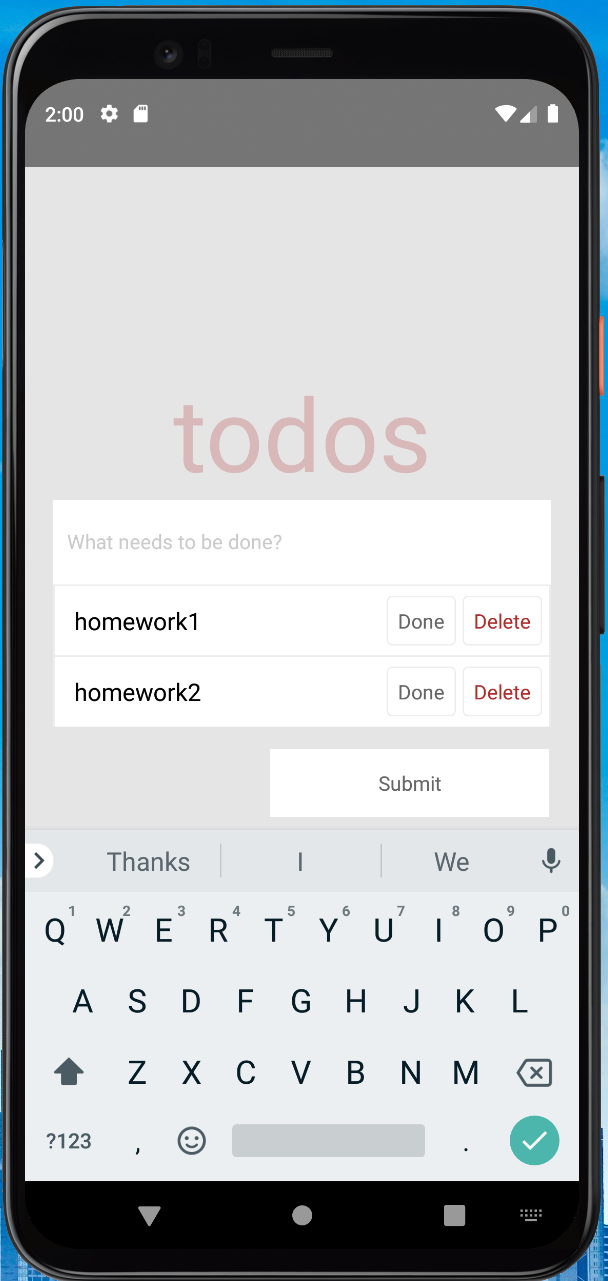
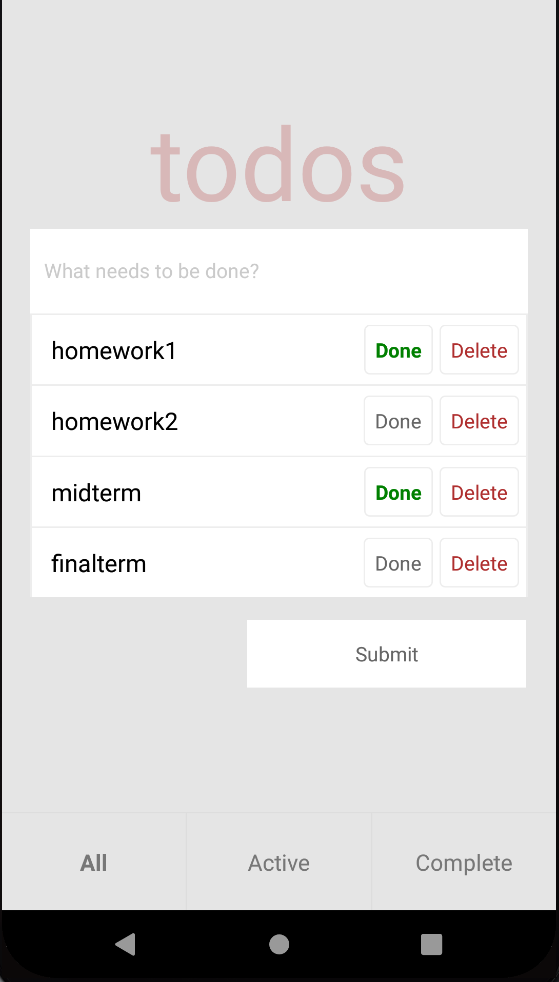
final_todos

diff --git a/todo/App.js b/todo/App.js
@@ -1,4 +1,3 @@
-
 import React, { Component } from 'react';
 import {
   SafeAreaView,
@@ -8,10 +7,50 @@ import {
   Text,
   StatusBar,
 } from 'react-native';
+
+
+// class App extends Component {
+
+//   <View style={styleSet.rootContainer}>
+//     <View style={styleSet.displayContainer}>
+//     </View>
+//     <View style={styleSet.inputContainer}>
+//     </View>
+//   </View>
+
+// }
+
+
+// const styleSet = StyleSheet.create({
+//   rootContainer: {
+//     flex:1
+//   },
+//   displayContainer: {
+//     flex:2,
+//     backgroundColor: '#193441'
+//   },
+//   inputContainer:{
+//     flex:8,
+//     backgroundColor: '#3E606F'
+//   }
+// })
+
+
+
+
+
+
+
+
+
+
+
+
 import Heading from './app/Heading'
 import Input from './app/TextInput'
 import Button from './app/Button'
 import TodoList from './app/TodoList'
+import TabBar from './app/TabBar'
 
 let todoIndex =  0 //왜 여기에 정의 했을까? state에 넣으면 되잖나?
 
@@ -26,6 +65,7 @@ class App extends Component {
     this.submitTodo = this.submitTodo.bind(this)
     this.toggleComplete = this.toggleComplete.bind(this)
     this.deleteTodo = this.deleteTodo.bind(this)
+    this.setType = this.setType.bind(this)
   }
   inputChange(inputValue) {
     console.log('input value:', inputValue)
@@ -62,8 +102,11 @@ class App extends Component {
     )
     this.setState({todos})
   }
+  setType (type) {
+    this.setState({type})
+  }
   render() {
-    let {inputValue, todos} = this.state
+    const {inputValue, todos, type} = this.state
     return (
       <View style={styles.container}>
         <ScrollView keyboardShouldPersistTaps='always' style={styles.content}>
@@ -71,11 +114,13 @@ class App extends Component {
           <Input inputValue={inputValue}
           inputChange={(text)=> this.inputChange(text)} />
             <TodoList 
+              type={type}
               toggleComplete={this.toggleComplete}
               deleteTodo={this.deleteTodo}
               todos={todos} />
             <Button submitTodo={this.submitTodo} />
         </ScrollView>
+        <TabBar type={type} setType={this.setType}/>
       </View>
     )
   }

diff --git a/todo/app/TabBarItem.js b/todo/app/TabBarItem.js
@@ -1,0 +1,34 @@
+import React from 'react'
+import {View, Text, StyleSheet, TouchableHighlight } from 'react-native'
+const TabBarItem = ({border,  title, selected, setType, type}) => (
+    <TouchableHighlight underlayColor = '#efefef' onPress={setType} 
+        style={[styles.item, selected ? styles.selected : null, border ? styles.border : null]}
+    ><Text style={[styles.itemText, type === title? styles.bold :null]}>
+        {title}
+    </Text>
+    </TouchableHighlight>
+)
+
+const styles = StyleSheet.create({
+    item: {
+        flex: 1,
+        justifyContent: 'center',
+        alignItems: 'center'
+    },
+    border: {
+        borderLeftWidth:1,
+        borderLeftColor: '#dddddd'
+    },
+    itemText: {
+        color: '#777777',
+        fontSize: 16,
+    },
+    selected: {
+        backgroundColor: '#ffffff'
+    },
+    bold:{
+        fontWeight: 'bold'
+    }
+})
+
+export default TabBarItem

diff --git a/todo/app/TabBar.js b/todo/app/TabBar.js
@@ -1,0 +1,22 @@
+import React from 'react'
+import {View, Text, StyleSheet, TouchableHighlight } from 'react-native'
+import TabBarItem from './TabBarItem'
+
+const TabBar = ({setType, type}) => (
+    <View style={styles.container}>
+        <TabBarItem type={type} title='All' setType={() => setType('All')}/>
+        <TabBarItem type={type} title='Active' border setType={() => setType('Active')}/>
+        <TabBarItem type={type} title='Complete' border setType={() => setType('Complete')}/>
+    </View>
+)
+
+const styles = StyleSheet.create({
+    container: {
+        height: 70,
+        flexDirection: 'row',
+        borderTopWidth: 1,
+        borderTopColor: '#dddddd'
+    }
+})
+
+export default TabBar

diff --git a/todo/calc/InputButtion.js b/todo/calc/InputButtion.js
@@ -1,0 +1,31 @@
+import React, {Component} from 'react';
+import {View, Text} from 'react-native' ;
+import Style from './Style';
+
+
+const InputButton = ({value}) => (
+    <View style={styleSet.inputButton}>
+        <Text style={styleSet.inputButtionText}>
+            {value}
+        </Text>
+    </View>
+)
+
+const styleSet = StyleSheet.creat({
+    inputButtion: {
+        flex: 1,
+        alignItems: 'center',
+        justifyContent: 'center',
+        borderWidth: 0.5,
+        borderColor: "#91AA9D"
+    },
+    inputButtionText: {
+        fontSize: 22,
+        fontWeight: 'bold',
+        color: 'white'
+    },
+    inputRow: {
+        flex:1,
+        flexDirection:'row'
+    }
+})

diff --git a/todo/app/TodoList.js b/todo/app/TodoList.js
@@ -2,7 +2,18 @@ import React from 'react'
 import {View} from 'react-native'
 import Todo from './Todo'
 
-const TodoList = ({todos, deleteTodo, toggleComplete}) => {
+const TodoList = ({todos, deleteTodo, toggleComplete, type}) => {
+    const getVisibleTodos = (todos, type) => {
+        switch (type) {
+            case 'All':
+                return todos
+            case 'Complete':
+                return todos.filter((t) => t.complete)
+            case 'Active':
+                return todos.filter((t) => !t.complete )
+        }
+    }
+    todos = getVisibleTodos(todos, type)
     todos = todos.map((todo,index) => {
         return (
             <Todo 

diff --git a/todo/calc/ButtonList.js b/todo/calc/ButtonList.js
@@ -1,0 +1,33 @@
+import React, {Component} from 'react';
+import {View, Text} from 'react-native' ;
+
+const inputButtons = [
+    [1,2,3,'/'],
+    [4,5,6,"*"],
+    [7,8,9,'-'],
+    [0,'.','=','+']
+];
+
+
+
+
+
+
+const styleSet = StyleSheet.creat({
+    inputButtion: {
+        flex: 1,
+        alignItems: 'center',
+        justifyContent: 'center',
+        borderWidth: 0.5,
+        borderColor: "#91AA9D"
+    },
+    inputButtionText: {
+        fontSize: 22,
+        fontWeight: 'bold',
+        color: 'white'
+    },
+    inputRow: {
+        flex:1,
+        flexDirection:'row'
+    }
+})
